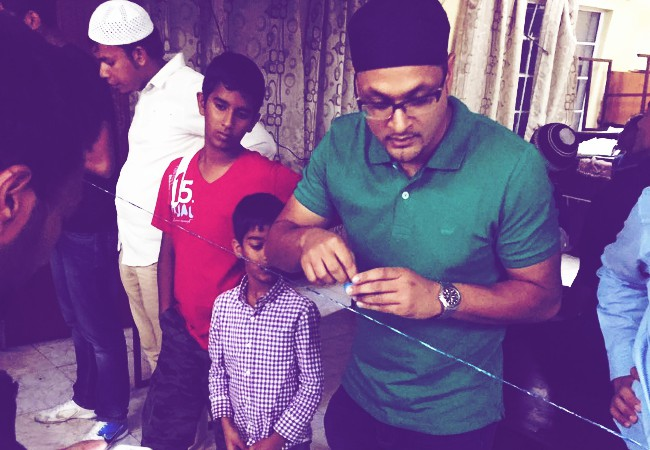
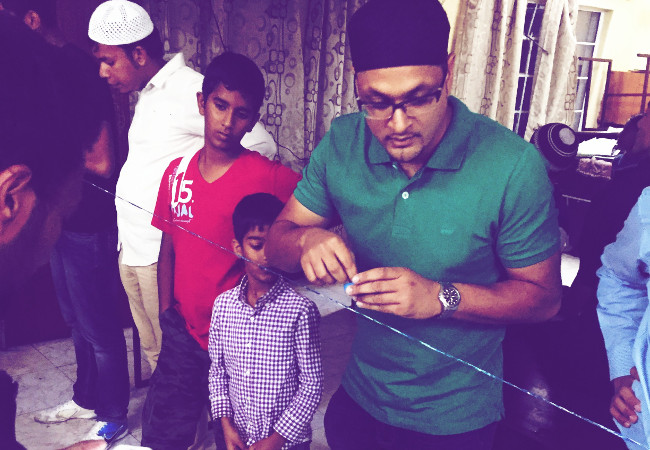
+ Added favico + Changed pictures to high-res ones + Moved jquery.min.js locally + Added Google Analytics

diff --git a/vendor/jquery/jquery.easing.min.js b/vendor/jquery/jquery.easing.min.js
@@ -1,0 +1,44 @@
+/*
+ * jQuery Easing v1.3 - http://gsgd.co.uk/sandbox/jquery/easing/
+ *
+ * Uses the built in easing capabilities added In jQuery 1.1
+ * to offer multiple easing options
+ *
+ * TERMS OF USE - EASING EQUATIONS
+ * 
+ * Open source under the BSD License. 
+ * 
+ * Copyright Â© 2001 Robert Penner
+ * All rights reserved.
+ *
+ * TERMS OF USE - jQuery Easing
+ * 
+ * Open source under the BSD License. 
+ * 
+ * Copyright Â© 2008 George McGinley Smith
+ * All rights reserved.
+ *
+ * Redistribution and use in source and binary forms, with or without modification, 
+ * are permitted provided that the following conditions are met:
+ * 
+ * Redistributions of source code must retain the above copyright notice, this list of 
+ * conditions and the following disclaimer.
+ * Redistributions in binary form must reproduce the above copyright notice, this list 
+ * of conditions and the following disclaimer in the documentation and/or other materials 
+ * provided with the distribution.
+ * 
+ * Neither the name of the author nor the names of contributors may be used to endorse 
+ * or promote products derived from this software without specific prior written permission.
+ * 
+ * THIS SOFTWARE IS PROVIDED BY THE COPYRIGHT HOLDERS AND CONTRIBUTORS "AS IS" AND ANY 
+ * EXPRESS OR IMPLIED WARRANTIES, INCLUDING, BUT NOT LIMITED TO, THE IMPLIED WARRANTIES OF
+ * MERCHANTABILITY AND FITNESS FOR A PARTICULAR PURPOSE ARE DISCLAIMED. IN NO EVENT SHALL THE
+ *  COPYRIGHT OWNER OR CONTRIBUTORS BE LIABLE FOR ANY DIRECT, INDIRECT, INCIDENTAL, SPECIAL,
+ *  EXEMPLARY, OR CONSEQUENTIAL DAMAGES (INCLUDING, BUT NOT LIMITED TO, PROCUREMENT OF SUBSTITUTE
+ *  GOODS OR SERVICES; LOSS OF USE, DATA, OR PROFITS; OR BUSINESS INTERRUPTION) HOWEVER CAUSED 
+ * AND ON ANY THEORY OF LIABILITY, WHETHER IN CONTRACT, STRICT LIABILITY, OR TORT (INCLUDING
+ *  NEGLIGENCE OR OTHERWISE) ARISING IN ANY WAY OUT OF THE USE OF THIS SOFTWARE, EVEN IF ADVISED 
+ * OF THE POSSIBILITY OF SUCH DAMAGE. 
+ *
+*/
+jQuery.easing.jswing=jQuery.easing.swing;jQuery.extend(jQuery.easing,{def:"easeOutQuad",swing:function(e,f,a,h,g){return jQuery.easing[jQuery.easing.def](e,f,a,h,g)},easeInQuad:function(e,f,a,h,g){return h*(f/=g)*f+a},easeOutQuad:function(e,f,a,h,g){return -h*(f/=g)*(f-2)+a},easeInOutQuad:function(e,f,a,h,g){if((f/=g/2)<1){return h/2*f*f+a}return -h/2*((--f)*(f-2)-1)+a},easeInCubic:function(e,f,a,h,g){return h*(f/=g)*f*f+a},easeOutCubic:function(e,f,a,h,g){return h*((f=f/g-1)*f*f+1)+a},easeInOutCubic:function(e,f,a,h,g){if((f/=g/2)<1){return h/2*f*f*f+a}return h/2*((f-=2)*f*f+2)+a},easeInQuart:function(e,f,a,h,g){return h*(f/=g)*f*f*f+a},easeOutQuart:function(e,f,a,h,g){return -h*((f=f/g-1)*f*f*f-1)+a},easeInOutQuart:function(e,f,a,h,g){if((f/=g/2)<1){return h/2*f*f*f*f+a}return -h/2*((f-=2)*f*f*f-2)+a},easeInQuint:function(e,f,a,h,g){return h*(f/=g)*f*f*f*f+a},easeOutQuint:function(e,f,a,h,g){return h*((f=f/g-1)*f*f*f*f+1)+a},easeInOutQuint:function(e,f,a,h,g){if((f/=g/2)<1){return h/2*f*f*f*f*f+a}return h/2*((f-=2)*f*f*f*f+2)+a},easeInSine:function(e,f,a,h,g){return -h*Math.cos(f/g*(Math.PI/2))+h+a},easeOutSine:function(e,f,a,h,g){return h*Math.sin(f/g*(Math.PI/2))+a},easeInOutSine:function(e,f,a,h,g){return -h/2*(Math.cos(Math.PI*f/g)-1)+a},easeInExpo:function(e,f,a,h,g){return(f==0)?a:h*Math.pow(2,10*(f/g-1))+a},easeOutExpo:function(e,f,a,h,g){return(f==g)?a+h:h*(-Math.pow(2,-10*f/g)+1)+a},easeInOutExpo:function(e,f,a,h,g){if(f==0){return a}if(f==g){return a+h}if((f/=g/2)<1){return h/2*Math.pow(2,10*(f-1))+a}return h/2*(-Math.pow(2,-10*--f)+2)+a},easeInCirc:function(e,f,a,h,g){return -h*(Math.sqrt(1-(f/=g)*f)-1)+a},easeOutCirc:function(e,f,a,h,g){return h*Math.sqrt(1-(f=f/g-1)*f)+a},easeInOutCirc:function(e,f,a,h,g){if((f/=g/2)<1){return -h/2*(Math.sqrt(1-f*f)-1)+a}return h/2*(Math.sqrt(1-(f-=2)*f)+1)+a},easeInElastic:function(f,h,e,l,k){var i=1.70158;var j=0;var g=l;if(h==0){return e}if((h/=k)==1){return e+l}if(!j){j=k*0.3}if(g<Math.abs(l)){g=l;var i=j/4}else{var i=j/(2*Math.PI)*Math.asin(l/g)}return -(g*Math.pow(2,10*(h-=1))*Math.sin((h*k-i)*(2*Math.PI)/j))+e},easeOutElastic:function(f,h,e,l,k){var i=1.70158;var j=0;var g=l;if(h==0){return e}if((h/=k)==1){return e+l}if(!j){j=k*0.3}if(g<Math.abs(l)){g=l;var i=j/4}else{var i=j/(2*Math.PI)*Math.asin(l/g)}return g*Math.pow(2,-10*h)*Math.sin((h*k-i)*(2*Math.PI)/j)+l+e},easeInOutElastic:function(f,h,e,l,k){var i=1.70158;var j=0;var g=l;if(h==0){return e}if((h/=k/2)==2){return e+l}if(!j){j=k*(0.3*1.5)}if(g<Math.abs(l)){g=l;var i=j/4}else{var i=j/(2*Math.PI)*Math.asin(l/g)}if(h<1){return -0.5*(g*Math.pow(2,10*(h-=1))*Math.sin((h*k-i)*(2*Math.PI)/j))+e}return g*Math.pow(2,-10*(h-=1))*Math.sin((h*k-i)*(2*Math.PI)/j)*0.5+l+e},easeInBack:function(e,f,a,i,h,g){if(g==undefined){g=1.70158}return i*(f/=h)*f*((g+1)*f-g)+a},easeOutBack:function(e,f,a,i,h,g){if(g==undefined){g=1.70158}return i*((f=f/h-1)*f*((g+1)*f+g)+1)+a},easeInOutBack:function(e,f,a,i,h,g){if(g==undefined){g=1.70158}if((f/=h/2)<1){return i/2*(f*f*(((g*=(1.525))+1)*f-g))+a}return i/2*((f-=2)*f*(((g*=(1.525))+1)*f+g)+2)+a},easeInBounce:function(e,f,a,h,g){return h-jQuery.easing.easeOutBounce(e,g-f,0,h,g)+a},easeOutBounce:function(e,f,a,h,g){if((f/=g)<(1/2.75)){return h*(7.5625*f*f)+a}else{if(f<(2/2.75)){return h*(7.5625*(f-=(1.5/2.75))*f+0.75)+a}else{if(f<(2.5/2.75)){return h*(7.5625*(f-=(2.25/2.75))*f+0.9375)+a}else{return h*(7.5625*(f-=(2.625/2.75))*f+0.984375)+a}}}},easeInOutBounce:function(e,f,a,h,g){if(f<g/2){return jQuery.easing.easeInBounce(e,f*2,0,h,g)*0.5+a}return jQuery.easing.easeOutBounce(e,f*2-g,0,h,g)*0.5+h*0.5+a}});

diff --git a/index.html b/index.html
@@ -21,6 +21,10 @@
     <!-- Theme CSS -->
     <link href="css/agency.min.css" rel="stylesheet">
 
+    <!-- Favicon -->
+    <link rel="shortcut icon" href="./favicon.ico" type="image/x-icon">
+    <link rel="icon" href="./favicon.ico" type="image/x-icon">
+
     <!-- HTML5 Shim and Respond.js IE8 support of HTML5 elements and media queries -->
     <!-- WARNING: Respond.js doesn't work if you view the page via file:// -->
     <!--[if lt IE 9]>
@@ -137,10 +141,10 @@
             </div>
             <div class="row">
                 <div class="col-md-4 col-sm-6 portfolio-item">
-                        <img src="img/gallery/ahad.jpg" class="img-responsive" alt="">
+                        <img src="img/gallery/program.jpg" class="img-responsive" alt="">
                 </div>
                 <div class="col-md-4 col-sm-6 portfolio-item">
-                        <img src="img/gallery/mka.jpg" class="img-responsive" alt="">
+                        <img src="img/gallery/ahad.jpg" class="img-responsive" alt="">
                 </div>
                 <div class="col-md-4 col-sm-6 portfolio-item">
                         <img src="img/gallery/swimming.jpg" class="img-responsive" alt="">
@@ -153,6 +157,15 @@
                 </div>
                 <div class="col-md-4 col-sm-6 portfolio-item">
                         <img src="img/gallery/fungame.jpg" class="img-responsive" alt="">
+                </div>
+                <div class="col-md-4 col-sm-6 portfolio-item">
+                        <img src="img/gallery/blooddonation.jpg" class="img-responsive" alt="">
+                </div>
+                <div class="col-md-4 col-sm-6 portfolio-item">
+                        <img src="img/gallery/photo.jpg" class="img-responsive" alt="">
+                </div>
+                <div class="col-md-4 col-sm-6 portfolio-item">
+                        <img src="img/gallery/mka.jpg" class="img-responsive" alt="">
                 </div>
             </div>
         </div>
@@ -303,7 +316,7 @@
     <script src="vendor/bootstrap/js/bootstrap.min.js"></script>
 
     <!-- Plugin JavaScript -->
-    <script src="https://cdnjs.cloudflare.com/ajax/libs/jquery-easing/1.3/jquery.easing.min.js"></script>
+    <script src="vendor/jquery/jquery.easing.min.js"></script>
 
     <!-- Contact Form JavaScript -->
     <script src="js/jqBootstrapValidation.js"></script>
@@ -312,6 +325,17 @@
     <!-- Theme JavaScript -->
     <script src="js/agency.min.js"></script>
 
+    <!--Google Analytics -->
+    <script>
+      (function(i,s,o,g,r,a,m){i['GoogleAnalyticsObject']=r;i[r]=i[r]||function(){
+      (i[r].q=i[r].q||[]).push(arguments)},i[r].l=1*new Date();a=s.createElement(o),
+      m=s.getElementsByTagName(o)[0];a.async=1;a.src=g;m.parentNode.insertBefore(a,m)
+      })(window,document,'script','https://www.google-analytics.com/analytics.js','ga');
+
+      ga('create', 'UA-85967329-1', 'auto');
+      ga('send', 'pageview');
+
+    </script>
 </body>
 
 </html>
